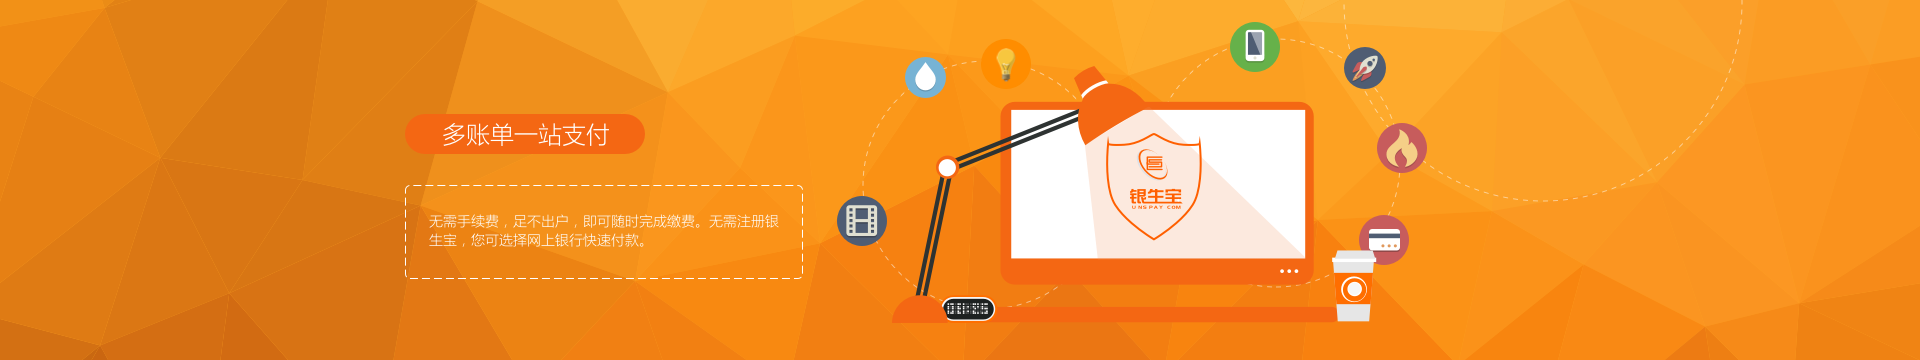
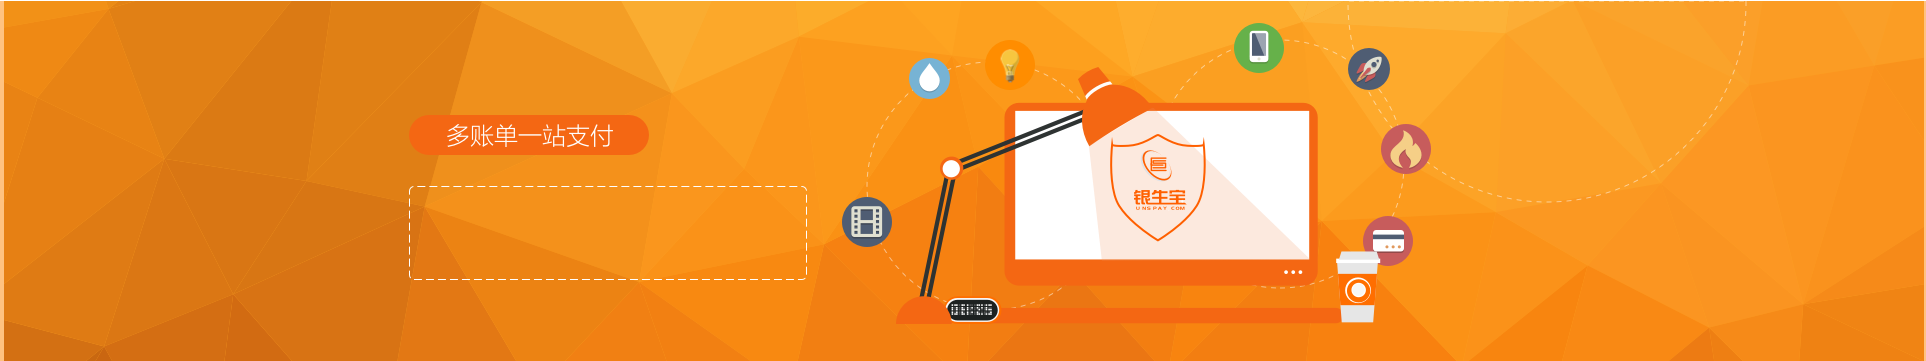
首页

diff --git a/modules/js/common3.js b/modules/js/common3.js
@@ -3,56 +3,47 @@
  */
 
 
-$(function(){
-    console.log("common3")
+$(function() {
+    console.log("common3");
 
-$("#myTab").on('click',function(){
-    choosedata();
-});
-function choosedata(){
-    for(var i=0;i<$(".recharge:visible span").length;i++){
-        var _s=$(".recharge:visible span").eq(i).attr("id");
-        choose(i);
-        console.log(i)
+    var _rq = new Date();
+    $(".ccc").css("cursor","pointer");
+    var _1week = new Date(_rq.getTime() - 1000 * 60 * 60 * 24 * 7);
+    var _1month = new Date(_rq.getTime() - 1000 * 60 * 60 * 24 * 30);
+    var _3month = new Date(_rq.getTime() - 1000 * 60 * 60 * 24 * 90);
+    var _1year = new Date(_rq.getTime() - 1000 * 60 * 60 * 24 * 365);
+    function cho() {
+        $(".cd").on('click', function () {
+            var _cd1 = $(".recharge:visible input:first");
+            var _cd2 = $(".recharge:visible input:last");
+            _cd1.val(_rq.getFullYear() + "-" + (_rq.getMonth() + 1) + "-" + _rq.getDate());
+            _cd2.val(_rq.getFullYear() + "-" + (_rq.getMonth() + 1) + "-" + _rq.getDate())
+        });
+        $(".cw").on('click', function () {
+            var _cd1 = $(".recharge:visible input:first");
+            var _cd2 = $(".recharge:visible input:last");
+            _cd1.val(_1week.getFullYear() + "-" + (_1week.getMonth() + 1) + "-" + _1week.getDate());
+            _cd2.val(_rq.getFullYear() + "-" + (_rq.getMonth() + 1) + "-" + _rq.getDate())
+        });
+        $(".cm").on('click', function () {
+            var _cd1 = $(".recharge:visible input:first");
+            var _cd2 = $(".recharge:visible input:last");
+            _cd1.val(_1month.getFullYear() + "-" + (_1month.getMonth() + 1) + "-" + _1month.getDate());
+            _cd2.val(_rq.getFullYear() + "-" + (_rq.getMonth() + 1) + "-" + _rq.getDate())
+        });
+        $(".cm3").on('click', function () {
+            var _cd1 = $(".recharge:visible input:first");
+            var _cd2 = $(".recharge:visible input:last");
+            _cd1.val(_3month.getFullYear() + "-" + (_3month.getMonth() + 1) + "-" + _3month.getDate());
+            _cd2.val(_rq.getFullYear() + "-" + (_rq.getMonth() + 1) + "-" + _rq.getDate())
+        });
+        $(".cy").on('click', function () {
+            var _cd1 = $(".recharge:visible input:first");
+            var _cd2 = $(".recharge:visible input:last");
+            _cd1.val(_1year.getFullYear() + "-" + (_1year.getMonth() + 1) + "-" + _1year.getDate());
+            _cd2.val(_rq.getFullYear() + "-" + (_rq.getMonth() + 1) + "-" + _rq.getDate())
+        });
     }
-}
-function choose(i){
-    var _cd1=$(".recharge:visible input:first");
-    var _cd2=$(".recharge:visible input:last");
-    $(".recharge:visible span").eq(i).css("cursor","pointer").on('click',function(){
-        var _rq=new Date();
-//            function datas(b){
-//                return [
-//                    _b.getFullYear(),
-//                    _b.getMonth(),
-//                    _b.getDate()
-//                ].join("-")
-//            }
-        var _1week=new Date(_rq.getTime()-1000*60*60*24*7);
-        var _1month=new Date(_rq.getTime()-1000*60*60*24*30);
-        var _3month=new Date(_rq.getTime()-1000*60*60*24*90);
-        var _1year=new Date(_rq.getTime()-1000*60*60*24*365);
-        if(i==0){
-            _cd1.val(_rq.getFullYear()+"-"+(_rq.getMonth()+1)+"-"+_rq.getDate());
-            _cd2.val(_rq.getFullYear()+"-"+(_rq.getMonth()+1)+"-"+_rq.getDate())
-        }
-        if(i==1){
-            _cd1.val(_1week.getFullYear()+"-"+(_1week.getMonth()+1)+"-"+_1week.getDate());
-            _cd2.val(_rq.getFullYear()+"-"+(_rq.getMonth()+1)+"-"+_rq.getDate())
-        }
-        if(i==2){
-            _cd1.val(_1month.getFullYear()+"-"+(_1month.getMonth()+1)+"-"+_1month.getDate());
-            _cd2.val(_rq.getFullYear()+"-"+(_rq.getMonth()+1)+"-"+_rq.getDate())
-        }
-        if(i==3){
-            _cd1.val(_3month.getFullYear()+"-"+(_3month.getMonth()+1)+"-"+_3month.getDate());
-            _cd2.val(_rq.getFullYear()+"-"+(_rq.getMonth()+1)+"-"+_rq.getDate())
-        }
-        if(i==4){
-            _cd1.val(_1year.getFullYear()+"-"+(_1year.getMonth()+1)+"-"+_1year.getDate());
-            _cd2.val(_rq.getFullYear()+"-"+(_rq.getMonth()+1)+"-"+_rq.getDate())
-        }
-    })
-}
 
+    cho()
 })

diff --git a/page/postaccount/index.html b/page/postaccount/index.html
@@ -454,10 +454,11 @@
                                 <em>交易日期：</em>
                                 <input data-provide="datepicker"> - <input data-provide="datepicker">
                                 <button>查询</button>
-                                <span>今天</span>
-                                <span>最近一周</span>
-                                <span>1个月</span>
-                                <span>3个月</span><span>1年</span>
+                                <span class="cd ccc">今天</span>
+                                <span class="cw ccc">最近一周</span>
+                                <span class="cm ccc">1个月</span>
+                                <span class="cm3 ccc">3个月</span>
+                                <span class="cy ccc">1年</span>
                             </div>
                         </div>
                         <div class="recharge_box">您已成功充值： <em>0.00</em>元  账户余额： <em>0.00</em>元</div>
@@ -489,10 +490,11 @@
                                 <em>交易日期：</em>
                                 <input data-provide="datepicker"> - <input data-provide="datepicker">
                                 <button>查询</button>
-                                <span>今天</span>
-                                <span>最近一周</span>
-                                <span>1个月</span>
-                                <span>3个月</span><span>1年</span>
+                                <span class="cd ccc">今天</span>
+                                <span class="cw ccc">最近一周</span>
+                                <span class="cm ccc">1个月</span>
+                                <span class="cm3 ccc">3个月</span>
+                                <span class="cy ccc">1年</span>
                             </div>
                         </div>
                         <div class="recharge_box">您已成功提现： <em>0.00</em>元  账户余额： <em>0.00</em>元</div>

diff --git a/page/help/safe-mgt.html b/page/help/safe-mgt.html
@@ -26,13 +26,13 @@
         	<li><img src="imgs/help/G27.png" alt="" /><em><a href="/page/help_content/safe-mgt4.html">预留信息</a></em></li>
         	<li><img src="imgs/help/G27.png" alt="" /><em><a href="/page/help_content/safe-mgt5.html">消息定制</a></em></li>
         	<li><img src="imgs/help/G27.png" alt="" /><em><a href="/page/help_content/safe-mgt6.html">实名认证</a></em></li>
-        	<li><img src="imgs/help/G27.png" alt="" /><em><a href="###">上传身份证</a></em></li>
-        	<li><img src="imgs/help/G27.png" alt="" /><em><a href="###">邮箱绑定</a></em></li>
-        	<li><img src="imgs/help/G27.png" alt="" /><em><a href="###">取消邮箱绑定</a></em></li>
-        	<li><img src="imgs/help/G27.png" alt="" /><em><a href="###">手机绑定</a></em></li>
-        	<li><img src="imgs/help/G27.png" alt="" /><em><a href="###">更换手机号码</a></em></li>
-			<li><img src="imgs/help/G27.png" alt="" /><em><a href="###">手机动态口令</a></em></li>
-			<li><img src="imgs/help/G27.png" alt="" /><em><a href="###">动态口令卡</a></em></li>
+        	<li><img src="imgs/help/G27.png" alt="" /><em><a href="/page/help_content/safe-mgt6.html">上传身份证</a></em></li>
+        	<li><img src="imgs/help/G27.png" alt="" /><em><a href="/page/help_content/safe-mgt6.html">邮箱绑定</a></em></li>
+        	<li><img src="imgs/help/G27.png" alt="" /><em><a href="/page/help_content/safe-mgt6.html">取消邮箱绑定</a></em></li>
+        	<li><img src="imgs/help/G27.png" alt="" /><em><a href="/page/help_content/safe-mgt6.html">手机绑定</a></em></li>
+        	<li><img src="imgs/help/G27.png" alt="" /><em><a href="/page/help_content/safe-mgt6.html">更换手机号码</a></em></li>
+			<li><img src="imgs/help/G27.png" alt="" /><em><a href="/page/help_content/safe-mgt6.html">手机动态口令</a></em></li>
+			<li><img src="imgs/help/G27.png" alt="" /><em><a href="/page/help_content/safe-mgt6.html">动态口令卡</a></em></li>
         </ul>
         </div>
 	   </div>

diff --git a/page/lifeservice/ggsyjf.html b/page/lifeservice/ggsyjf.html
@@ -20,16 +20,20 @@
 	.bar_article .zhong{width:302px;}
 	.bar_article ul li{width:33.3%;}
 	.bar_article .zhong .one {
-    background-color: #31B2EC;
-}
+            background-color: #31B2EC;
+     }
 </style>
 </head>
 <body class="pagelifeservice">
 <!--head-->
 <link rel="import" href="modules/widget/header/header.html?__inline">
 
-<div class="lifeban">
-    <img src="/imgs/postappls/B1.png">
+<div class="lifeban" style="position: relative">
+    <img src="/imgs/postappls/B1j.png">
+    <!--<div style="position: absolute;width: 20%;height: 22%;left: 21.6%;top:54%;font-size: 14px;color: white;">-->
+        <!--<P>无需手续费,足不出户,即可随时完成缴费.无需注册银生宝,</P>-->
+        <!--<P>您可选择网上银行快速付款.</P>-->
+    <!--</div>-->
 </div>
 <!--body-->
 <div class="bo"  style="padding-top: 30px">
@@ -41,7 +45,7 @@
             <!--生活服务左边-->
             <div class="lifel">
                 <ul class="lifelu">
-                    <li style="border-top: none"   class="act"><a href="###" >公共事业缴费<img src="/imgs/postappls/1.jpg" class="life1"></a></li>
+                    <li style="border-top: none" class="act"><a href="###" >公共事业缴费<img src="/imgs/postappls/1.jpg" class="life1"></a></li>
                     <li><a href="sjcz.html">手机充值<img src="/imgs/postappls/1.jpg" class="life1"></a></li>
                     <li><a href="yxcz.html">游戏充值<img src="/imgs/postappls/1.jpg" class="life1"></a></li>
                     <li><a href="jykcz.html">加油卡充值<img src="/imgs/postappls/1.jpg" class="life1"></a></li>
